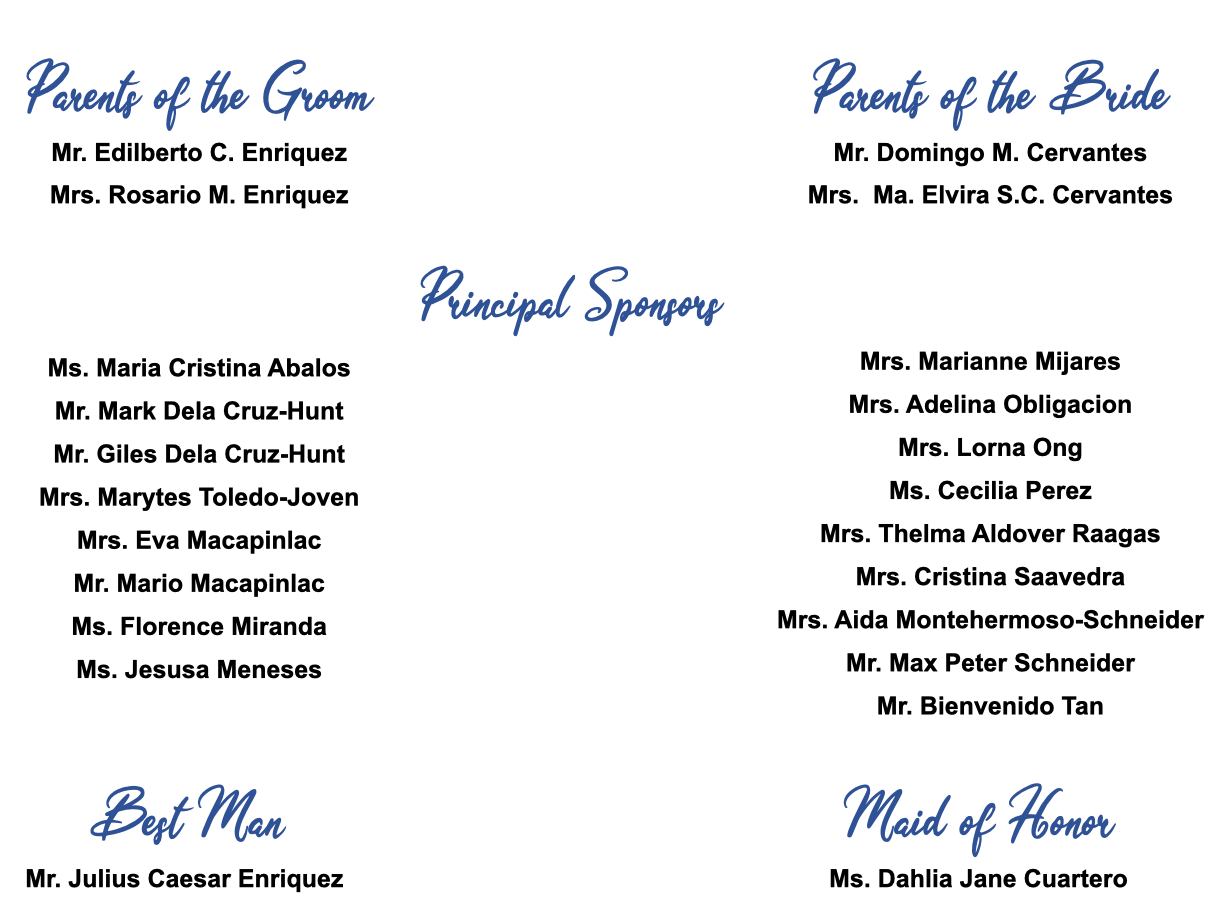
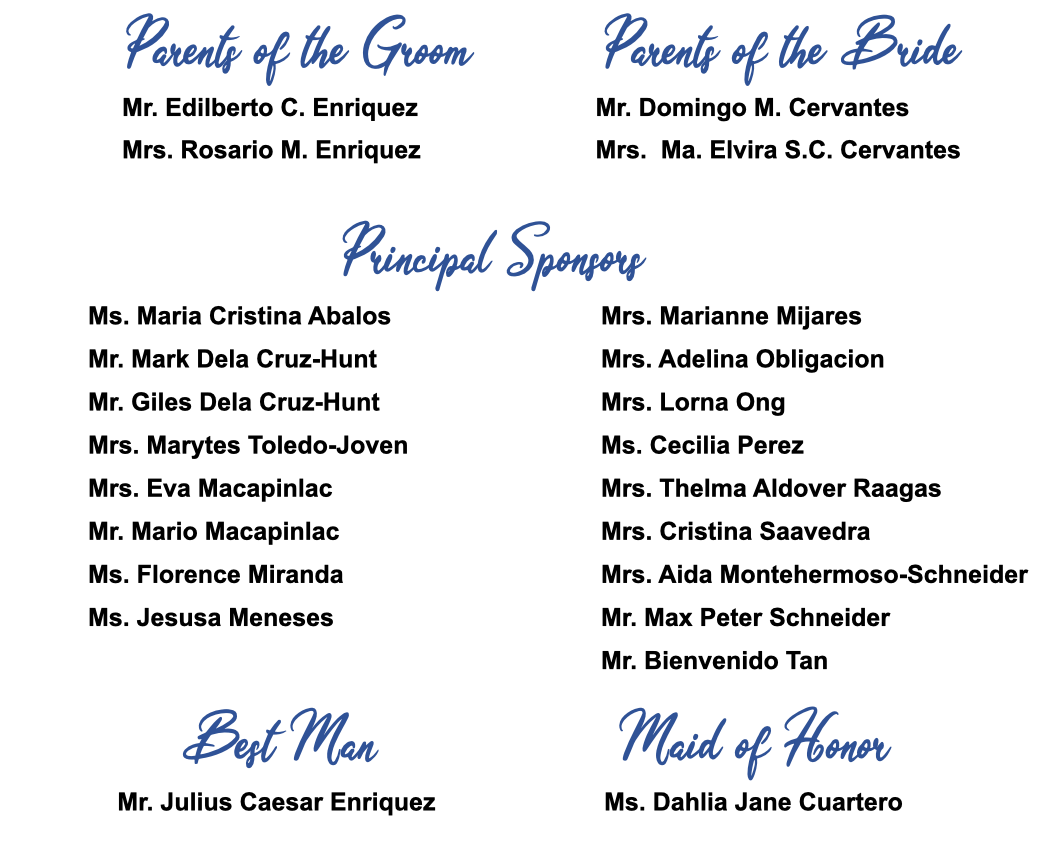
revision 1

diff --git a/css/styles.min.css b/css/styles.min.css
@@ -1,1 +1,1 @@
-@import url(https://fonts.googleapis.com/css?family=Open+Sans:300italic,400italic,600italic,700italic,800italic,400,300,600,700,800);@import url(https://fonts.googleapis.com/css?family=Merriweather:400,300,400italic,300italic,700,700italic);@import url(https://fonts.googleapis.com/css?family=Nunito:400,300,700);p{font-size:15px;line-height:29px;color:#000;padding-bottom:12px}h1{font-size:60px}h2{font-size:40px;font-weight:300;color:#000}h3{color:#385291;font-size:18px;font-weight:700;text-transform:uppercase;letter-spacing:3px;line-height:29px}h4{font-size:18px}h5{font-size:18px;color:#385291;font-weight:700;text-transform:uppercase;font-weight:500}h6{color:#385291;font-size:50px;letter-spacing:3px;line-height:29px;font-family:'Olivia Dhorgent',sans-serif;padding-top:40px}.btn{font-size:13px;border:solid 2px;-moz-border-radius:40px;-webkit-border-radius:40px;border-radius:40px;display:inline-block;text-transform:uppercase}.btn:focus,.btn:hover{color:#f80404;border-color:#eb0909;background-color:#f30101}.btn-white{font-size:13px;border:solid 2px;-moz-border-radius:40px;-webkit-border-radius:40px;border-radius:40px;display:inline-block;border-color:#ffff}.btn-white:focus,.btn-white:hover{color:#ffff;border-color:#ffff}.btn-fill{color:#fff;border:solid 2px #385291;-moz-border-radius:40px;-webkit-border-radius:40px;border-radius:40px;display:inline-block;text-transform:uppercase;background-color:#385291}.btn-fill:focus,.btn-fill:hover{color:#ffff;background-color:#5b7ac2;border-color:#5b7ac2}.btn-small{padding:10px 45px}.btn-large{padding:15px 50px}.btn-margin-right{margin-right:20px}.group:after{content:"";display:table;clear:both}.no-padding{padding:0}.no-margin{margin:0}a{color:#385291;-webkit-transition-timing-function:ease;transition-timing-function:ease;-webkit-transition-duration:.2s;transition-duration:.2s;-webkit-transition-property:color,border-color,background-color;transition-property:color,border-color,background-color}a:focus,a:hover{color:#d3b56a;text-decoration:none}body{font-family:"Open Sans",sans-serif;font-weight:300;color:#000;-webkit-text-size-adjust:100%;background:#fff}:focus{outline:0!important}ol,ul{margin:0;padding:0}s ul li{list-style:none}section .header{padding-bottom:10px}.section-padding{padding:10px 0}.section-border{border-bottom:1px solid #ec0808}.tooltip{position:absolute;z-index:1070;display:block;font-family:"Helvetica Neue",Helvetica,Arial,sans-serif;font-size:12px;font-weight:400;line-height:1.4;visibility:visible;opacity:0}.tooltip.in{opacity:.9}.tooltip.top{padding:5px 0;margin-top:-3px}.tooltip.right{padding:0 5px;margin-left:3px}.tooltip.bottom{padding:5px 0;margin-top:3px}.tooltip.left{padding:0 5px;margin-left:-3px}.tooltip-inner{max-width:200px;padding:3px 8px;color:#f10808;text-align:center;text-decoration:none;text-transform:capitalize;background-color:#f00404;border-radius:4px}.pulse2{animation-name:pulse2;animation-duration:1s;animation-iteration-count:infinite;animation-timing-function:linear}@keyframes pulse2{0%{transform:scale(1.1)}50%{transform:scale(.8)}100%{transform:scale(1)}}.floating-arrow{animation-name:floating-arrow;animation-duration:2s;animation-iteration-count:infinite;animation-timing-function:ease-in-out}@keyframes floating-arrow{from{transform:translate(-50%,0)}65%{transform:translate(-50%,15px)}to{transform:translate(-50%,0)}}.floating-logo{animation-name:floating-logo;animation-duration:2s;animation-iteration-count:infinite;animation-timing-function:ease-in-out}@keyframes floating-logo{from{transform:translate(-50%,0)}50%{transform:translate(-50%,10px)}to{transform:translate(-50%,0)}}.wp1,.wp2,.wp3,.wp4,.wp5,.wp6,.wp7,.wp8,.wp9{visibility:hidden}.wp8,.wp9{-webkit-animation-delay:.3s;animation-delay:.3s}.bounceInDown,.bounceInLeft,.bounceInRight,.fadeInDown,.fadeInLeft,.fadeInRight,.fadeInUp,.fadeInUpD,.fadeInUpDelay{visibility:visible}.header-nav.open{visibility:visible;opacity:.9;-webkit-transition:opacity .5s;transition:opacity .5s}.nav-toggle{position:absolute;top:0;right:15px;z-index:999999;padding:15px 0 0 0;cursor:pointer}.nav-toggle:focus{outline:0}.nav-toggle span,.nav-toggle span:after,.nav-toggle span:before{content:"";position:absolute;display:block;width:32px;height:3px;-moz-border-radius:1px;-webkit-border-radius:1px;border-radius:1px;background:#ffff;cursor:pointer}.nav-toggle span:before{top:-10px}.nav-toggle span:after{bottom:-10px}.nav-toggle span,.nav-toggle span:after,.nav-toggle span:before{-moz-transition:all .3s ease-in-out;-o-transition:all .3s ease-in-out;-webkit-transition:all .3s ease-in-out;transition:all .3s ease-in-out}.nav-toggle.active span{background-color:transparent}.nav-toggle.active span:after,.nav-toggle.active span:before{top:0}.nav-toggle.active span:before{-moz-transform:rotate(45deg);-ms-transform:rotate(45deg);-o-transform:rotate(45deg);-webkit-transform:rotate(45deg);transform:rotate(45deg)}.nav-toggle.active span:after{top:10px;-moz-transform:translatey(-10px) rotate(-45deg);-ms-transform:translatey(-10px) rotate(-45deg);-o-transform:translatey(-10px) rotate(-45deg);-webkit-transform:translatey(-10px) rotate(-45deg);transform:translatey(-10px) rotate(-45deg)}.navicon{position:absolute;height:26px;right:10px;top:30px;visibility:hidden;transition:all .3s ease-in-out}.hero{min-height:700px;background:url(../img/banner.png) center center;-webkit-background-size:contain;-moz-background-size:cover;-o-background-size:cover;background-size:cover;position:relative;background-position:center}.hero .down-arrow a{color:#fff}.hero h1{color:#f30101;margin-bottom:40px}.hero p.intro{color:#f80202;font-size:20px;font-weight:300;margin-bottom:80px}.hero .hero-content{padding-top:50%}.hero .hero-content img{width:45%;margin-bottom:2%}.navigation{transition:all .3s ease-in-out;position:fixed;width:100%;z-index:999}.fixed{padding:0 0;position:fixed;background-color:#385391f5;z-index:999;width:100%}header{padding:10px 0;border-bottom:solid 1px rgba(255,255,255,.2);position:relative;text-align:left;width:100%;margin:0 auto;transition:padding .3s ease-in-out}header a{color:#f80000;text-transform:uppercase;font-size:13px}header a.login{margin-right:20px}header .logo{display:inline}header .logo img{height:60px}header ul.primary-nav{margin:0 0 0 60px;padding:0}header ul.primary-nav li{display:inline}header ul.primary-nav li a{color:#ffff;padding-right:25px}header ul.primary-nav li a:hover{color:#ffff;font-weight:700}header ul.primary-nav li:last-child a{padding-right:0}header ul.member-actions li{display:inline}header ul.member-actions li a{color:#ffff}header ul.member-actions li a:hover{color:#fff;font-weight:700}header .header-nav{display:inline-block}header .member-actions{position:absolute;right:0;top:20px;transition:all .3s ease-in-out}.down-arrow{color:#fff;font-size:30px;position:absolute;bottom:30px;left:50%;transform:translateX(-50%)}.share-bar{margin-top:20px}.intro span.icon{font-size:40px;color:#ec0303;font-weight:700}.intro-icon{display:inline-block;vertical-align:top;padding:6px 0 0 0;margin-right:20px;width:40px}.intro-content{display:inline-block;width:80%}#intro{padding-top:40px}#intro img{width:100%;height:auto}#intro p{text-align:center}.features{position:relative}.features p{margin-bottom:0;padding-bottom:0}.features h3{margin:0 0 20px 0}.features span.icon{font-size:35px;color:#f10202;font-weight:700}.features .feature-icon{display:inline-block;vertical-align:top;padding:6px 0 0 0;margin-right:20px;width:35px}.features .feature-content{display:inline-block;width:75%}.features .intro-icon{display:inline-block;vertical-align:top;padding:6px 0 0 0;margin-right:20px}.features .intro-content{display:inline-block;width:80%}.features ul.features-stack{margin-top:50px}.features ul.features-stack li{margin-top:20px;padding-bottom:20px;border-bottom:solid 1px #f10606}.features ul.features-stack li:last-child{padding-bottom:0;border-bottom:none}.features .ipad-wrap{width:706px;height:1002px;background:url(../img/ipad-device.png) no-repeat center center;z-index:1}.features .iphone-wrap{width:304px;height:620px;background:url(../img/iphone6.png) no-repeat center center;position:absolute;left:530px;bottom:129px;z-index:2}.features .device-showcase{position:absolute;bottom:-365px;right:61%}.features .responsive-feature-img,.features-extra .responsive-feature-img{display:none}.devices{position:relative}.features-extra{position:relative;z-index:3}.features-extra .btn{margin-top:20px}.features-extra .macbook-wrap{position:absolute;width:916px;height:540px;background:url(../img/macbook-pro.png) no-repeat center center;top:114px;z-index:4;left:50%}.hero-strip{margin-top:120px;background:#333844 url(../img/polygonal-bg.jpg) no-repeat center center;padding-bottom:190px;position:relative}.hero-strip i{font-family:Nunito,sans-serif;font-weight:300;font-size:25px;color:#f00b0b;vertical-align:top;margin-left:-8px;font-style:normal}.hero-strip h2{color:#fff;margin:0 0 20px 0}.hero-strip p{color:#acb1b4}.hero-strip .btn{margin-top:10px}.hero-strip .logo-placeholder{width:230px;height:230px;position:absolute;bottom:-285px;left:50%;transform:translateX(-50%)}.events .leftcol .other.safety .unplugged{padding-right:100px;border-right:solid 1px #e6e9ea}.events .rightcol .other .safety .unplugged{padding-left:100px}.events .time .safety .other .unplugged{font-size:13px;font-style:italic;text-transform:lowercase;color:rgba(28,54,83,.6)}.blog{padding-bottom:120px}.blog img{width:100%;height:auto;-moz-transition:all .3s ease-in-out;-o-transition:all .3s ease-in-out;-webkit-transition:all .3s ease-in-out;transition:all .3s ease-in-out}.blog h2{font-size:11px;color:#acb1b4;font-weight:500;text-transform:uppercase;margin-top:35px}.blog .btn{margin-top:20px}.blog .blog-img-wrap{position:relative;overflow:hidden}.blog .blog-img-wrap .overlay{position:absolute;width:100%;height:100%;background-color:rgba(255,255,255,.5);-moz-transition:all .3s ease-in-out;-o-transition:all .3s ease-in-out;-webkit-transition:all .3s ease-in-out;transition:all .3s ease-in-out;opacity:0}.blog .blog-img-wrap i{color:#fff;font-size:20px;position:absolute;width:20px;height:20px;top:25px;right:35px}.blog .blog-img-wrap:focus img,.blog .blog-img-wrap:hover img{-moz-transform:scale(1.1);-ms-transform:scale(1.1);-o-transform:scale(1.1);-webkit-transform:scale(1.1);transform:scale(1.1)}.blog .blog-img-wrap:focus .overlay,.blog .blog-img-wrap:hover .overlay{opacity:1;z-index:9}.blog figcaption i{margin-left:5px;font-size:15px}.blog figcaption a.blog-post-title{color:rgba(28,54,83,.6)}.blog figcaption a.blog-post-title:focus,.blog figcaption a.blog-post-title:hover{color:#000}#instagram img,#other img,#safety img{width:200%}#events img{width:100%}#attire img,#gift img{width:70%}#eng-pics img{width:100%;height:auto;-moz-transition:all .3s ease-in-out;-o-transition:all .3s ease-in-out;-webkit-transition:all .3s ease-in-out;transition:all .3s ease-in-out}#eng-pics .img-wrap{padding-top:10px;position:relative;overflow:hidden;border-radius:4px}#eng-pics .img-wrap .overlay{position:absolute;width:100%;height:100%;background-color:rgba(255,255,255,.5);-moz-transition:all .3s ease-in-out;-o-transition:all .3s ease-in-out;-webkit-transition:all .3s ease-in-out;transition:all .3s ease-in-out;opacity:0}#eng-pics .img-wrap i{color:#fff;font-size:15px;position:absolute;width:15px;height:15px;top:6px;right:6px}#eng-pics .img-wrap:focus img,#eng-pics .img-wrap:hover img{-moz-transform:scale(1.1);-ms-transform:scale(1.1);-o-transform:scale(1.1);-webkit-transform:scale(1.1);transform:scale(1.1)}#eng-pics .img-wrap:focus .overlay,#eng-pics .img-wrap:hover .overlay{opacity:1;z-index:9}#eng-pics .diamond{width:230px;height:230px;position:absolute;bottom:-145px;left:50%;transform:translateX(-50%);z-index:500}#eng-pics .ring{width:75px;height:75px;border-radius:75px;border:10px solid #d0d3d4;position:absolute;left:34%;top:75%;z-index:-1}#video-bg{margin:auto;height:280px;width:95%}#video-content{width:100%;height:100%;padding-top:50px;position:relative;background:rgba(17,17,17,.5);text-align:center}#video-content h5{color:#fff;font-size:30px;font-weight:300;letter-spacing:10px}#video-content p{color:#fff}#map-canvas{height:500px;width:100%}#map-content-wrapper{position:relative;margin-top:-502px;margin-bottom:150px}#map-content{margin-top:40px;padding:50px 60px;background:#fa0202;-webkit-transition:opacity .5s,visibility .6s,margin-top .5s;transition:opacity .5s,visibility .6s,margin-top .5s}#btn-show-content{padding:20px;background:#e40505;cursor:pointer;display:inline-block;-webkit-transition:opacity .5s,visibility .6s,margin-top .5s;transition:opacity .5s,visibility .6s,margin-top .5s}.toggle-map-content{opacity:0;visibility:hidden}.pointer-events-none{pointer-events:none}.pointer-events-auto{pointer-events:auto}.rsvp{padding-bottom:100px}.rsvp .rsvp-form .rsvp-btn{padding:15px 0;border-radius:3px;width:100%;font-size:13px}.rsvp .rsvp-form .form-input-group{width:100%;height:55px;margin:0 auto 10px;-moz-border-radius:5px;-webkit-border-radius:5px;border-radius:5px;border:solid 1px #e6e9ea;text-align:left;position:relative}.rsvp .rsvp-form .form-input-group i{color:#385291;font-size:14px}.rsvp .rsvp-form .form-input-group i:after{content:"";height:30px;width:1px;border-right:solid 1px #eae6e6ec;position:absolute;top:50%;left:30px;transform:translateY(-50%)}.rsvp .rsvp-form .form-input-group .fa-key,.rsvp .rsvp-form .form-input-group i.fa-phone,.rsvp .rsvp-form .form-input-group i.fa-user,.rsvp .rsvp-form .form-input-group i.fa-users{font-size:14px;position:absolute;top:50%;transform:translateY(-50%);margin-left:20px}.rsvp .rsvp-form .form-input-group input{padding-left:68px;width:100%;height:100%;-moz-border-radius:6px;-webkit-border-radius:6px;border-radius:6px;border:none}.rsvp .rsvp-form .form-input-group input::-webkit-input-placeholder{color:#bcc1c3}.rsvp .rsvp-form .form-input-group input:-moz-placeholder{color:#bcc1c3}.rsvp .rsvp-form .form-input-group input::-moz-placeholder{color:#ee0d0d}.rsvp .rsvp-form .form-input-group input:-ms-input-placeholder{color:#f50404}footer .content{border-top:1px solid #eae6e6;padding-bottom:10px}footer .to-top-wrapper{font-size:30px;display:block;cursor:pointer;margin:-25px auto 50px;border-radius:50%;width:50px;height:50px;border:1px solid #eae6e6;background:#ffff}footer .to-top-wrapper .to-top{display:block;-webkit-transition:all .3s ease-in-out;-moz-transition:all .3s ease-in-out;-ms-transition:all .3s ease-in-out;-o-transition:all .3s ease-in-out;transition:all .3s ease-in-out}footer .to-top-wrapper .to-top:hover{margin-top:-5px}footer span.fa-heart{color:#ff415c;font-size:18px;margin:0 2px}body.modal-open{padding-right:0!important}.modal-body{padding:25px}ol{padding-left:35px}@font-face{font-family:myFirstFont;src:url(oliviadhorgent.ttf) font-weight: bold}strong{Color:#385291}iframe{width:100%}
+@import url(https://fonts.googleapis.com/css?family=Open+Sans:300italic,400italic,600italic,700italic,800italic,400,300,600,700,800);@import url(https://fonts.googleapis.com/css?family=Merriweather:400,300,400italic,300italic,700,700italic);@import url(https://fonts.googleapis.com/css?family=Nunito:400,300,700);p{font-size:15px;line-height:29px;color:#000;padding-bottom:12px}h1{font-size:60px}h2{font-size:40px;font-weight:300;color:#000}h3{color:#385291;font-size:18px;font-weight:700;text-transform:uppercase;letter-spacing:3px;line-height:29px}h4{font-size:18px}h5{font-size:23px;font-family:'Modern No. 20',sans-serif;color:#385291;font-weight:700;text-transform:uppercase;font-weight:500}h6{color:#385291;font-size:45px;letter-spacing:3px;line-height:29px;font-family:'Olivia Dhorgent',sans-serif;padding-top:40px}.btn{font-size:13px;border:solid 2px;-moz-border-radius:40px;-webkit-border-radius:40px;border-radius:40px;display:inline-block;text-transform:uppercase}.btn:focus,.btn:hover{color:#f80404;border-color:#eb0909;background-color:#f30101}.btn-white{font-size:13px;border:solid 2px;-moz-border-radius:40px;-webkit-border-radius:40px;border-radius:40px;display:inline-block;border-color:#ffff}.btn-white:focus,.btn-white:hover{color:#ffff;border-color:#ffff}.btn-fill{color:#fff;border:solid 2px #385291;-moz-border-radius:40px;-webkit-border-radius:40px;border-radius:40px;display:inline-block;text-transform:uppercase;background-color:#385291}.btn-fill:focus,.btn-fill:hover{color:#ffff;background-color:#5b7ac2;border-color:#5b7ac2}.btn-small{padding:10px 45px}.btn-large{padding:15px 50px}.btn-margin-right{margin-right:20px}.group:after{content:"";display:table;clear:both}.no-padding{padding:0}.no-margin{margin:0}a{color:#385291;-webkit-transition-timing-function:ease;transition-timing-function:ease;-webkit-transition-duration:.2s;transition-duration:.2s;-webkit-transition-property:color,border-color,background-color;transition-property:color,border-color,background-color}a:focus,a:hover{color:#d3b56a;text-decoration:none}body{font-family:"Open Sans",sans-serif;font-weight:300;color:#000;-webkit-text-size-adjust:100%;background:#fff}:focus{outline:0!important}ol,ul{margin:0;padding:0}s ul li{list-style:none}section .header{padding-bottom:10px}.section-padding{padding:10px 0}.section-border{border-bottom:1px solid #ec0808}.tooltip{position:absolute;z-index:1070;display:block;font-family:"Helvetica Neue",Helvetica,Arial,sans-serif;font-size:12px;font-weight:400;line-height:1.4;visibility:visible;opacity:0}.tooltip.in{opacity:.9}.tooltip.top{padding:5px 0;margin-top:-3px}.tooltip.right{padding:0 5px;margin-left:3px}.tooltip.bottom{padding:5px 0;margin-top:3px}.tooltip.left{padding:0 5px;margin-left:-3px}.tooltip-inner{max-width:200px;padding:3px 8px;color:#f10808;text-align:center;text-decoration:none;text-transform:capitalize;background-color:#f00404;border-radius:4px}.pulse2{animation-name:pulse2;animation-duration:1s;animation-iteration-count:infinite;animation-timing-function:linear}@keyframes pulse2{0%{transform:scale(1.1)}50%{transform:scale(.8)}100%{transform:scale(1)}}.floating-arrow{animation-name:floating-arrow;animation-duration:2s;animation-iteration-count:infinite;animation-timing-function:ease-in-out}@keyframes floating-arrow{from{transform:translate(-50%,0)}65%{transform:translate(-50%,15px)}to{transform:translate(-50%,0)}}.floating-logo{animation-name:floating-logo;animation-duration:2s;animation-iteration-count:infinite;animation-timing-function:ease-in-out}@keyframes floating-logo{from{transform:translate(-50%,0)}50%{transform:translate(-50%,10px)}to{transform:translate(-50%,0)}}.wp1,.wp2,.wp3,.wp4,.wp5,.wp6,.wp7,.wp8,.wp9{visibility:hidden}.wp8,.wp9{-webkit-animation-delay:.3s;animation-delay:.3s}.bounceInDown,.bounceInLeft,.bounceInRight,.fadeInDown,.fadeInLeft,.fadeInRight,.fadeInUp,.fadeInUpD,.fadeInUpDelay{visibility:visible}.header-nav.open{visibility:visible;opacity:.9;-webkit-transition:opacity .5s;transition:opacity .5s}.nav-toggle{position:absolute;top:0;right:15px;z-index:999999;padding:15px 0 0 0;cursor:pointer}.nav-toggle:focus{outline:0}.nav-toggle span,.nav-toggle span:after,.nav-toggle span:before{content:"";position:absolute;display:block;width:32px;height:3px;-moz-border-radius:1px;-webkit-border-radius:1px;border-radius:1px;background:#ffff;cursor:pointer}.nav-toggle span:before{top:-10px}.nav-toggle span:after{bottom:-10px}.nav-toggle span,.nav-toggle span:after,.nav-toggle span:before{-moz-transition:all .3s ease-in-out;-o-transition:all .3s ease-in-out;-webkit-transition:all .3s ease-in-out;transition:all .3s ease-in-out}.nav-toggle.active span{background-color:transparent}.nav-toggle.active span:after,.nav-toggle.active span:before{top:0}.nav-toggle.active span:before{-moz-transform:rotate(45deg);-ms-transform:rotate(45deg);-o-transform:rotate(45deg);-webkit-transform:rotate(45deg);transform:rotate(45deg)}.nav-toggle.active span:after{top:10px;-moz-transform:translatey(-10px) rotate(-45deg);-ms-transform:translatey(-10px) rotate(-45deg);-o-transform:translatey(-10px) rotate(-45deg);-webkit-transform:translatey(-10px) rotate(-45deg);transform:translatey(-10px) rotate(-45deg)}.navicon{position:absolute;height:26px;right:10px;top:30px;visibility:hidden;transition:all .3s ease-in-out}.hero{min-height:700px;background:url(../img/banner.png) center center;-webkit-background-size:contain;-moz-background-size:cover;-o-background-size:cover;background-size:cover;position:relative;background-position:center}.hero .down-arrow a{color:#fff}.hero h1{color:#f30101;margin-bottom:40px}.hero p.intro{color:#f80202;font-size:20px;font-weight:300;margin-bottom:80px}.hero .hero-content{padding-top:50%}.hero .hero-content img{width:45%;margin-bottom:2%}.navigation{transition:all .3s ease-in-out;position:fixed;width:100%;z-index:999}.fixed{padding:0 0;position:fixed;background-color:#385391f5;z-index:999;width:100%}header{padding:10px 0;border-bottom:solid 1px rgba(255,255,255,.2);position:relative;text-align:left;width:100%;margin:0 auto;transition:padding .3s ease-in-out}header a{color:#f80000;text-transform:uppercase;font-size:13px}header a.login{margin-right:20px}header .logo{display:inline}header .logo img{height:60px}header ul.primary-nav{margin:0 0 0 60px;padding:0}header ul.primary-nav li{display:inline}header ul.primary-nav li a{color:#ffff;padding-right:25px}header ul.primary-nav li a:hover{color:#ffff;font-weight:700}header ul.primary-nav li:last-child a{padding-right:0}header ul.member-actions li{display:inline}header ul.member-actions li a{color:#ffff}header ul.member-actions li a:hover{color:#fff;font-weight:700}header .header-nav{display:inline-block}header .member-actions{position:absolute;right:0;top:20px;transition:all .3s ease-in-out}.down-arrow{color:#fff;font-size:30px;position:absolute;bottom:30px;left:50%;transform:translateX(-50%)}.share-bar{margin-top:20px}.intro span.icon{font-size:40px;color:#ec0303;font-weight:700}.intro-icon{display:inline-block;vertical-align:top;padding:6px 0 0 0;margin-right:20px;width:40px}.intro-content{display:inline-block;width:80%}#intro{padding-top:40px}#intro img{width:100%;height:auto}#intro p{text-align:center}.features{position:relative}.features p{margin-bottom:0;padding-bottom:0}.features h3{margin:0 0 20px 0}.features span.icon{font-size:35px;color:#f10202;font-weight:700}.features .feature-icon{display:inline-block;vertical-align:top;padding:6px 0 0 0;margin-right:20px;width:35px}.features .feature-content{display:inline-block;width:75%}.features .intro-icon{display:inline-block;vertical-align:top;padding:6px 0 0 0;margin-right:20px}.features .intro-content{display:inline-block;width:80%}.features ul.features-stack{margin-top:50px}.features ul.features-stack li{margin-top:20px;padding-bottom:20px;border-bottom:solid 1px #f10606}.features ul.features-stack li:last-child{padding-bottom:0;border-bottom:none}.features .ipad-wrap{width:706px;height:1002px;background:url(../img/ipad-device.png) no-repeat center center;z-index:1}.features .iphone-wrap{width:304px;height:620px;background:url(../img/iphone6.png) no-repeat center center;position:absolute;left:530px;bottom:129px;z-index:2}.features .device-showcase{position:absolute;bottom:-365px;right:61%}.features .responsive-feature-img,.features-extra .responsive-feature-img{display:none}.devices{position:relative}.features-extra{position:relative;z-index:3}.features-extra .btn{margin-top:20px}.features-extra .macbook-wrap{position:absolute;width:916px;height:540px;background:url(../img/macbook-pro.png) no-repeat center center;top:114px;z-index:4;left:50%}.hero-strip{margin-top:120px;background:#333844 url(../img/polygonal-bg.jpg) no-repeat center center;padding-bottom:190px;position:relative}.hero-strip i{font-family:Nunito,sans-serif;font-weight:300;font-size:25px;color:#f00b0b;vertical-align:top;margin-left:-8px;font-style:normal}.hero-strip h2{color:#fff;margin:0 0 20px 0}.hero-strip p{color:#acb1b4}.hero-strip .btn{margin-top:10px}.hero-strip .logo-placeholder{width:230px;height:230px;position:absolute;bottom:-285px;left:50%;transform:translateX(-50%)}.events .leftcol .other.safety .unplugged{padding-right:100px;border-right:solid 1px #e6e9ea}.events .rightcol .other .safety .unplugged{padding-left:100px}.events .time .safety .other .unplugged{font-size:13px;font-style:italic;text-transform:lowercase;color:rgba(28,54,83,.6)}.blog{padding-bottom:120px}.blog img{width:100%;height:auto;-moz-transition:all .3s ease-in-out;-o-transition:all .3s ease-in-out;-webkit-transition:all .3s ease-in-out;transition:all .3s ease-in-out}.blog h2{font-size:11px;color:#acb1b4;font-weight:500;text-transform:uppercase;margin-top:35px}.blog .btn{margin-top:20px}.blog .blog-img-wrap{position:relative;overflow:hidden}.blog .blog-img-wrap .overlay{position:absolute;width:100%;height:100%;background-color:rgba(255,255,255,.5);-moz-transition:all .3s ease-in-out;-o-transition:all .3s ease-in-out;-webkit-transition:all .3s ease-in-out;transition:all .3s ease-in-out;opacity:0}.blog .blog-img-wrap i{color:#fff;font-size:20px;position:absolute;width:20px;height:20px;top:25px;right:35px}.blog .blog-img-wrap:focus img,.blog .blog-img-wrap:hover img{-moz-transform:scale(1.1);-ms-transform:scale(1.1);-o-transform:scale(1.1);-webkit-transform:scale(1.1);transform:scale(1.1)}.blog .blog-img-wrap:focus .overlay,.blog .blog-img-wrap:hover .overlay{opacity:1;z-index:9}.blog figcaption i{margin-left:5px;font-size:15px}.blog figcaption a.blog-post-title{color:rgba(28,54,83,.6)}.blog figcaption a.blog-post-title:focus,.blog figcaption a.blog-post-title:hover{color:#000}#instagram img,#other img,#safety img{width:200%}#events img{width:100%}#attire img,#gift img{width:70%}#eng-pics img{width:100%;height:auto;-moz-transition:all .3s ease-in-out;-o-transition:all .3s ease-in-out;-webkit-transition:all .3s ease-in-out;transition:all .3s ease-in-out}#eng-pics .img-wrap{padding-top:10px;position:relative;overflow:hidden;border-radius:4px}#eng-pics .img-wrap .overlay{position:absolute;width:100%;height:100%;background-color:rgba(255,255,255,.5);-moz-transition:all .3s ease-in-out;-o-transition:all .3s ease-in-out;-webkit-transition:all .3s ease-in-out;transition:all .3s ease-in-out;opacity:0}#eng-pics .img-wrap i{color:#fff;font-size:15px;position:absolute;width:15px;height:15px;top:6px;right:6px}#eng-pics .img-wrap:focus img,#eng-pics .img-wrap:hover img{-moz-transform:scale(1.1);-ms-transform:scale(1.1);-o-transform:scale(1.1);-webkit-transform:scale(1.1);transform:scale(1.1)}#eng-pics .img-wrap:focus .overlay,#eng-pics .img-wrap:hover .overlay{opacity:1;z-index:9}#eng-pics .diamond{width:230px;height:230px;position:absolute;bottom:-145px;left:50%;transform:translateX(-50%);z-index:500}#eng-pics .ring{width:75px;height:75px;border-radius:75px;border:10px solid #d0d3d4;position:absolute;left:34%;top:75%;z-index:-1}#video-bg{margin:auto;height:280px;width:95%}#video-content{width:100%;height:100%;padding-top:50px;position:relative;background:rgba(17,17,17,.5);text-align:center}#video-content h5{color:#fff;font-size:30px;font-weight:300;letter-spacing:10px}#video-content p{color:#fff}#map-canvas{height:500px;width:100%}#map-content-wrapper{position:relative;margin-top:-502px;margin-bottom:150px}#map-content{margin-top:40px;padding:50px 60px;background:#fa0202;-webkit-transition:opacity .5s,visibility .6s,margin-top .5s;transition:opacity .5s,visibility .6s,margin-top .5s}#btn-show-content{padding:20px;background:#e40505;cursor:pointer;display:inline-block;-webkit-transition:opacity .5s,visibility .6s,margin-top .5s;transition:opacity .5s,visibility .6s,margin-top .5s}.toggle-map-content{opacity:0;visibility:hidden}.pointer-events-none{pointer-events:none}.pointer-events-auto{pointer-events:auto}.rsvp{padding-bottom:100px}.rsvp .rsvp-form .rsvp-btn{padding:15px 0;border-radius:3px;width:100%;font-size:13px}.rsvp .rsvp-form .form-input-group{width:100%;height:55px;margin:0 auto 10px;-moz-border-radius:5px;-webkit-border-radius:5px;border-radius:5px;border:solid 1px #e6e9ea;text-align:left;position:relative}.rsvp .rsvp-form .form-input-group i{color:#385291;font-size:14px}.rsvp .rsvp-form .form-input-group i:after{content:"";height:30px;width:1px;border-right:solid 1px #eae6e6ec;position:absolute;top:50%;left:30px;transform:translateY(-50%)}.rsvp .rsvp-form .form-input-group .fa-key,.rsvp .rsvp-form .form-input-group i.fa-phone,.rsvp .rsvp-form .form-input-group i.fa-user,.rsvp .rsvp-form .form-input-group i.fa-users{font-size:14px;position:absolute;top:50%;transform:translateY(-50%);margin-left:20px}.rsvp .rsvp-form .form-input-group input{padding-left:68px;width:100%;height:100%;-moz-border-radius:6px;-webkit-border-radius:6px;border-radius:6px;border:none}.rsvp .rsvp-form .form-input-group input::-webkit-input-placeholder{color:#bcc1c3}.rsvp .rsvp-form .form-input-group input:-moz-placeholder{color:#bcc1c3}.rsvp .rsvp-form .form-input-group input::-moz-placeholder{color:#ee0d0d}.rsvp .rsvp-form .form-input-group input:-ms-input-placeholder{color:#f50404}footer .content{border-top:1px solid #eae6e6;padding-bottom:10px}footer .to-top-wrapper{font-size:30px;display:block;cursor:pointer;margin:-25px auto 50px;border-radius:50%;width:50px;height:50px;border:1px solid #eae6e6;background:#ffff}footer .to-top-wrapper .to-top{display:block;-webkit-transition:all .3s ease-in-out;-moz-transition:all .3s ease-in-out;-ms-transition:all .3s ease-in-out;-o-transition:all .3s ease-in-out;transition:all .3s ease-in-out}footer .to-top-wrapper .to-top:hover{margin-top:-5px}footer span.fa-heart{color:#ff415c;font-size:18px;margin:0 2px}body.modal-open{padding-right:0!important}.modal-body{padding:25px}ol{padding-left:35px}@font-face{font-family:myFirstFont;src:url(oliviadhorgent.ttf) font-weight: bold}strong{Color:#385291}iframe{width:100%}

diff --git a/index.html b/index.html
@@ -31,7 +31,8 @@
     <link rel="stylesheet" href="css/animate.min.css">
     <link rel="stylesheet" href="css/font-awesome.min.css">
     <link rel="stylesheet" href="css/masking-input.css"/>
-    <link  rel="stylesheet" href="https://fonts.cdnfonts.com/css/olivia-dhorgent">
+    <link rel="stylesheet" href="https://fonts.cdnfonts.com/css/olivia-dhorgent">
+    <link rel="stylesheet" href="https://fonts.cdnfonts.com/css/modern-no-20">
     <script src="js/vendor/modernizr-2.8.3-respond-1.4.2.min.js"></script>
 
 
@@ -98,7 +99,7 @@
                 <p>Desiring God’s will in our lives,<br>
                     Knowing that he is the one who brought us together.<br>
                     <br>
-                    It is with great joy that, We, Together with ou families,
+                    It is with great joy that, we, together with our families,
                     We request the honour of your presence on <strong>Monday, 27th of December 2021</strong>
                     to share our celebration and sealing of promise and commitment to each other.  
                 </p>
@@ -204,6 +205,11 @@
 
 <section class="events section-padding" id="events">
     <div class="container">
+        <iframe width="560" height="315" src="https://www.youtube.com/embed/Qif90yzk4VY" title="YouTube video player" frameborder="0" allow="accelerometer; autoplay; clipboard-write; encrypted-media; gyroscope; picture-in-picture" allowfullscreen></iframe>        
+    </div>
+</section>
+<section class="events section-padding" id="events">
+    <div class="container">
         <div class="row">
             <div class="col-md-12 text-center">
                 <h6 class="header">Wedding Details</h6>
@@ -256,7 +262,7 @@
                         </div>
                         <div class="col-sm-2 col-xs-2 col-md-4 col-lg-4"></div>
                     </div>
-                    <p>Gentlemen can wear a pair of <strong>suit and tie</strong>,<br>
+                    <p>Gentlemen can wear <strong>long sleeves and slacks or coat and pants</strong>,<br>
                     while the ladies may wear <strong>long gowns and cocktail dresses</strong>.</p>
                     <p>Please Avoid wearing of Polo shirt, Shorts, Rubber shoes and Slippers</p>
                     <p></p>

diff --git a/sass/styles.scss b/sass/styles.scss
@@ -32,7 +32,8 @@ h4 {
 }
 
 h5 {
-    font-size: 18px;
+    font-size: 23px;
+    font-family: 'Modern No. 20', sans-serif;
     color: #385291;
     font-weight: bold;
     text-transform: uppercase;
@@ -41,7 +42,7 @@ h5 {
 
 h6 {
     color: #385291;
-    font-size: 50px;
+    font-size: 45px;
     letter-spacing: 3px;
     line-height: 29px;
     font-family: 'Olivia Dhorgent', sans-serif;
